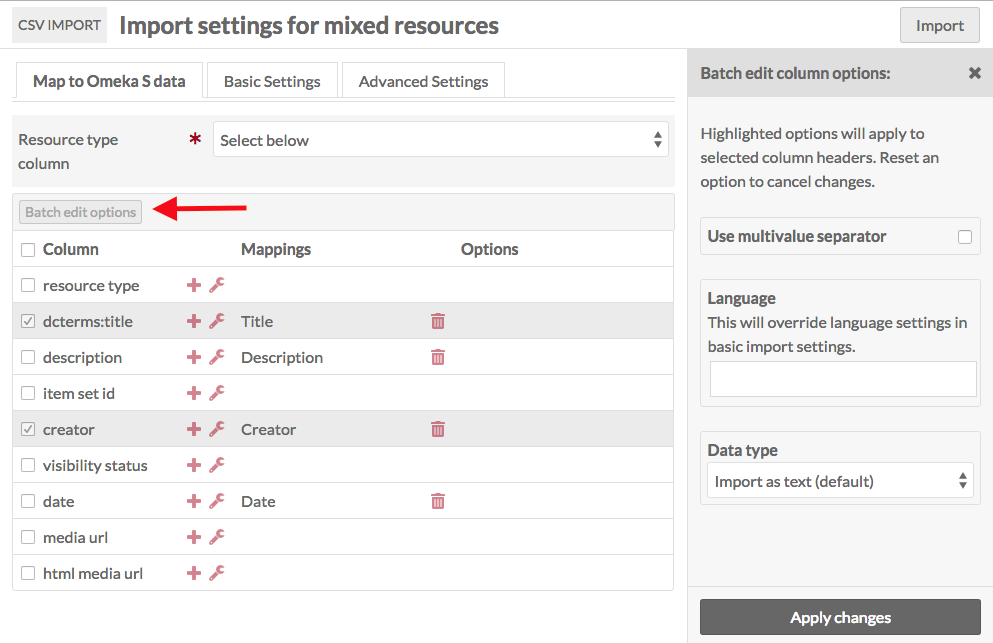
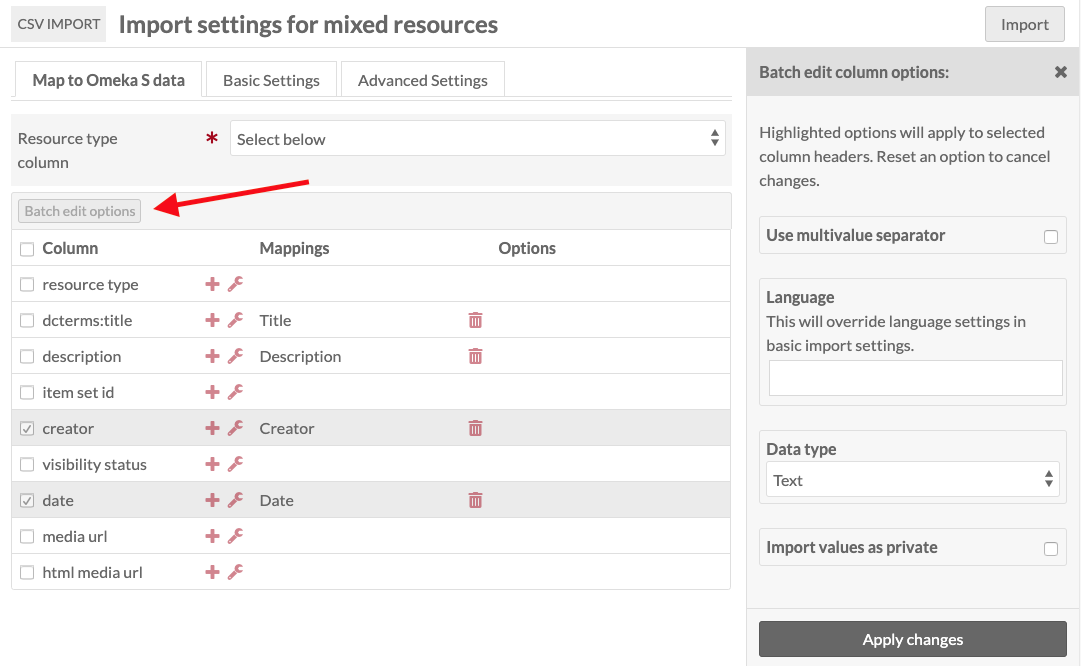
Update mixed resources and users
for changes for 2.1.0

diff --git a/docs/modules/csvimport.md b/docs/modules/csvimport.md
@@ -487,7 +487,7 @@ This tab displays an initial dropdown above a table with the columns from your s
 
 The dropdown above the table is where you set which column in the csv file indicates whether the data in that row is an item, item set, or media. *You do not need to map this data in the table on this tab*
 
-#### Mapping options
+#### Mapping options TK
 
 To map a column header to a vocabulary property, click on the plus symbol button to the left of the column header. This will open a drawer on the right-hand side of the screen. 
 
@@ -495,14 +495,20 @@ To map a column header to a vocabulary property, click on the plus symbol button
 
 The drawer has multiple options for mapping:
 
-**Resource data** has a dropdown from which you select one of three resource types. Select the type of resource that the row *is* - this option assumes that you have specific columns capturing item set information for rows which are items, etc. It fills in the same options for the selected type that you would have with an import of only that resource type (so, for Items, Item Set mapping, etc). 
+**Properties** select a property to map the column data to, from any of the installed vocabularies. Use the Filter field to search the available properties for a specific property.
+![Properties option open showing all of the installed vocabularies for the Omeka S installation: Dublin Core, Bibliographic Ontology, Friend of a Friend, Scripto and OWL-Time Ontology.](../modules/modulesfiles/csvimport_itemsMapProp.png)
 
-- *Item*
-	- Selecting this option gives you a dropdown to select how to identify the associated Item Set. You can either use the Item Set's internal ID, or any one of its properties (title, description).
-- *Item Set*
-	- Selecting this option loads a checkbox labeled "Open to additions." Check to allow other users to edit or add to the item set. Leave unchecked to have the item set be editable only by its creator, site admins, and global admins.
-- *Media:* 
-	- Selecting this option gives you a dropdown which you use set the item to which the media should be added. Media *cannot* exist without an item. You can use a property in the item's metadata or its internal ID.
+**Item-specific data** has a dropdown to set Item Set by selected property. If you have a column with data for an Item Set to which you want to add the item, you can set how it maps using this dropdown. You can either use the Item Set's internal ID, or any one of its properties (title, description).
+
+![dropdown as described](../modules/modulesfiles/csvimport_itemsMapISD.png)
+
+**Item set-specific data** is a checkbox for "Open to additions." Check to allow other users to edit or add to the item set. Leave unchecked to have the item set be editable only by its creator, site admins, and global admins.
+
+![Add mapping drawer showing the section "Item set-specific data". Below the section header is a single, unselected checkbox option labeled "Open to additions".](../modules/modulesfiles/csvimport_itemSetSD.png)
+
+**Media-specific data** has a dropdown to set the item to which the media should be added. You can either use the item's internal ID, or any one of its properties (title, description). A resources' interal ID is the number sequence at the end of the url when on the view or edit page, so for `/admin/item/11576` the ID is 11576
+
+![Media-specific data with dropdown](../modules/modulesfiles/csvimport_mediaMapData.png)
 
 **Generic data** has a dropdown where you can set one of four options:
 
@@ -512,8 +518,6 @@ The drawer has multiple options for mapping:
 - *Visibility public/private:* set the visibility of the media. Use "private" or "public" in the spreadsheet. 
 
 ![Dropdown as described](../modules/modulesfiles/csvimport_itemsMapgeneric.png)
-
-**Properties** select a property to map the column data to, from any of the installed vocabularies. Use the Filter field to search the available properties for a specific property.
 
 **Media source** For the column in your spreadsheet which points to the media, select which kind of media it is from the dropdown: 
 
@@ -542,17 +546,19 @@ This will open a drawer on the right side of the browser window with the followi
 
 - **Use multivalue separator:** check this box to use the multivalue separator for data in this column. You set the multivalue separator character in the initial import page, but you can change it in the Basic Settings tab. 
 - **Language:** is a field where you can set the language for this column using the [IETF Language tag](https://en.wikipedia.org/wiki/IETF_language_tag) for the language in which the text is written. This will override what you have entered in basic settings. 
-- **Data type:** is a dropdown with three options, which correspond to the [values](../content/items/#values) one can use when adding properties to an item:
+- **Data type:** is a dropdown with at least three options, which correspond to the [values](../content/items/#values) one can use when adding properties to an item:
 	- Import as text (default);
-	- Import as URL reference;
-	- Import as Omeka S resource ID. Note that you must have the correct ID for the resource. A resources' ID is the number sequence at the end of the url when on the view or edit page, so for `/admin/item/11576` the ID is 11576
+	- Import as URL reference. You can set the label for the URI by including the desired text after a space, for example:  `http://example.com This Is The Label`
+	- Import as Omeka S resource ID. Note that you must have the correct ID for the resource. A resources' ID is the number sequence at the end of the url when on the view or edit page, so for `/admin/item/11576` the ID is 11576.
+	- If you have certain modules installed, such as Numeric Data Types, there may be additional data type options supplied by those modules.
+- **Import values as private**: check this box to set all property values *in this column* private.
 
 ![drawer with options as described above](../modules/modulesfiles/csvimport_mixedR2.png)
 
 To remove a column option setting, click the wrench icon again and undo your changes manually.
 
 #### Batch edit
-When you select one or more rows in the table (columns from your csv file), you can use the "Batch edit options" button to apply the column options described above - use multivalue separator, language, and data type - to multiple csv columns at once. 
+When you select one or more rows in the table (columns from your csv file), you can use the "Batch edit options" button to apply the column options described above to multiple csv columns at once. 
 
 ![a screenshot of the Mapping tab, with the boxes for Columns Title and Creator checked. A red arrow points to the Batch edit options button. On the right side of the screen, a drawer offers options for changing the settings as described](../modules/modulesfiles/csvimport_batchEditMixed.png)
 
@@ -647,11 +653,14 @@ Column options are in addition to mappings. If you add options without also mapp
 
 This will open a drawer on the right side of the browser window with the following options: 
 
+- **Use multivalve separator:** check this box to use the multivalue separator for data in this column. You set the multivalue separator in the initial import page, but you can change it in the Basic Settings tab.  
 - **Language:** is a field where you can set the language for this column using the [IETF Language tag](https://en.wikipedia.org/wiki/IETF_language_tag) for the language in which the text is written. This will override what you have entered in basic settings. 
 - **Data type:** is a dropdown with three options, which correspond to the [values](../content/items/#values) one can use when adding properties to an item:
-	- Import as text (default);
-	- Import as URL reference;
-	- Import as Omeka S resource ID. Note that you must have the correct ID for the resource. A resources' ID is the number sequence at the end of the url when on the view or edit page, so for `/admin/item/11576` the ID is 11576
+	- Import as text (default).
+	- Import as URL reference. You can set the label for the URI by including the desired text after a space, for example:  `http://example.com This Is The Label`
+	- Import as Omeka S resource ID. Note that you must have the correct ID for the resource. A resources' ID is the number sequence at the end of the url when on the view or edit page, so for `/admin/item/11576` the ID is 11576.
+	- If you have certain modules installed, such as Numeric Data Types, there may be additional data type options supplied by those modules.
+- **Import values as private**: check this box to set all property values *in this column* private.
 
 #### Batch edit
 When you select one or more rows in the table (columns from your csv file), you can use the "Batch edit options" button to apply the column options described above - language and data type - to multiple csv columns at once. 
